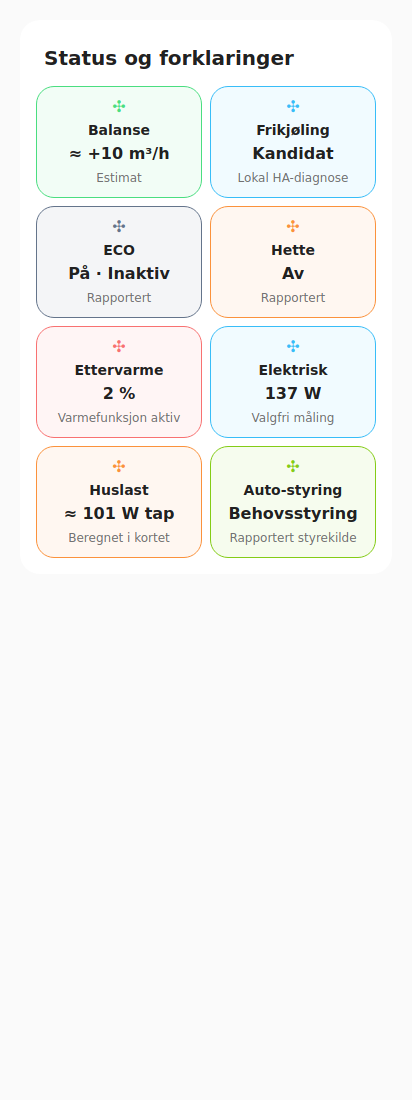
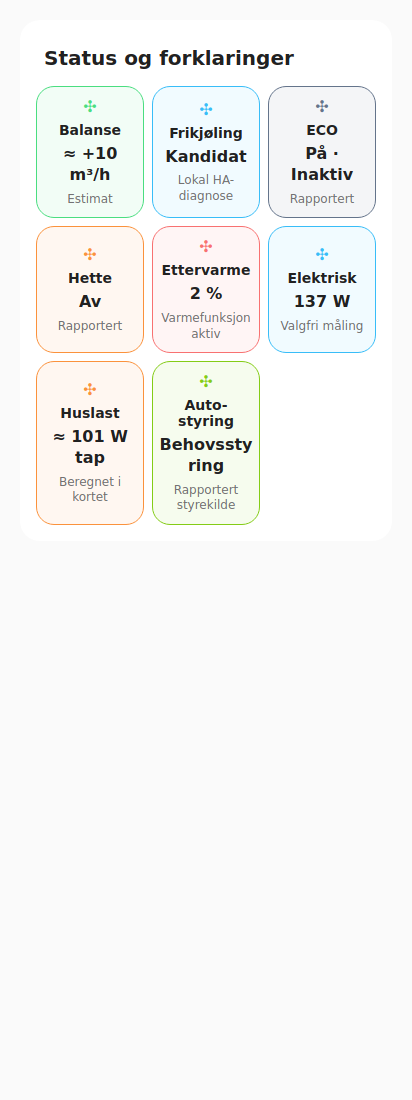
Make explanations toggle on repeated tap and retain three mobile columns (1.2.1)

diff --git a/vsr300-cards.js b/vsr300-cards.js
@@ -1,4 +1,4 @@
-/* VSR300 custom cards · version 1.2.0 · 2026-11-03
+/* VSR300 custom cards · version 1.2.1 · 2026-11-03
  * SPDX-License-Identifier: MIT
  * Copyright (c) 2026 stboee
  * Based on Systemair SVG / Kontrollpanel 4.8.1.
@@ -8,7 +8,7 @@
  */
 (() => {
   'use strict';
-  const VERSION = '1.2.0';
+  const VERSION = '1.2.1';
   const FIELD = (key, label, domain, defaultId, extra = {}) => ({ key, label, domain, defaultId, ...extra });
   const SVG_FIELDS = [
     FIELD('mode', 'Rapportert driftsmodus', 'sensor', 'sensor.systemair_save_modus'),
@@ -829,8 +829,6 @@ const heaterFill = !ettervarmeKnown ? '#854d0e' : ettervarmeActive ? '#991b1b' :
     code{font-size:.9em;overflow-wrap:anywhere}.values{width:100%;border-collapse:collapse;table-layout:fixed;margin:12px 0 16px}.values td{padding:7px 4px;border-bottom:1px solid var(--divider-color,#636363);vertical-align:top;overflow-wrap:anywhere}.values td:first-child{width:58%}.values .source{display:block;font-weight:400;font-size:12px;color:var(--secondary-text-color,#9b9b9b)}
     .close-row{display:flex;justify-content:flex-end}.close-button{min-height:44px;flex-direction:row;padding:8px 16px;gap:8px;border-radius:12px}.close-button ha-icon{--mdc-icon-size:20px}
     @media(max-width:380px){ha-card{padding:12px}.status-grid{gap:6px}.status-button{padding:8px 4px}}
-    @container(max-width:440px){.status-grid{grid-template-columns:repeat(2,minmax(0,1fr))}}
-    @container(max-width:280px){.status-grid{grid-template-columns:minmax(0,1fr)}}
   `;
   // This deliberately supports only the static paragraphs, lists, bold and code
   // used by the reviewed source card. Escape first; never execute source YAML/JS.
@@ -864,7 +862,7 @@ const heaterFill = !ettervarmeKnown ? '#854d0e' : ettervarmeActive ? '#991b1b' :
         if (!button) return;
         const closing = button.hasAttribute('data-close'), previous = this._selected;
         if (closing) this._selected = null;
-        else if (EXPLANATION_TOPICS.some(topic => topic.key === button.dataset.topic)) this._selected = button.dataset.topic;
+        else if (EXPLANATION_TOPICS.some(topic => topic.key === button.dataset.topic)) this._selected = previous === button.dataset.topic ? null : button.dataset.topic;
         this._renderIfReady();
         if (closing && previous) this.shadowRoot.querySelector(`button[data-topic="${previous}"]`)?.focus({ preventScroll: true });
       });

diff --git a/README.md b/README.md
@@ -3,7 +3,7 @@
 Three Home Assistant cards for Systemair SAVE VSR300: **Systemair SVG**,
 **Systemair Kontrollpanel**, and optional **Systemair Status og forklaringer**,
 with graphical entity selection. Current card
-version: **1.2.0**. Reference setup: HA 2026.10.2 and
+version: **1.2.1**. Reference setup: HA 2026.10.2 and
 [Howard systemair_modbus 1.3.0](https://github.com/Howard0000/home-assistant-systemair-modbus).
 
 [Norsk veiledning](README.nb.md)
@@ -24,7 +24,7 @@ same cards are loaded only once. Keep the existing card configurations.
 
 1. Download [vsr300-cards.js](vsr300-cards.js) using GitHub's **Download raw file** button.
 2. Copy it to `/config/www/vsr300/vsr300-cards.js` in Home Assistant. Create the `vsr300` folder if needed.
-3. Add a dashboard resource with URL **`/local/vsr300/vsr300-cards.js?v=1.2.0`** and type **JavaScript module**.
+3. Add a dashboard resource with URL **`/local/vsr300/vsr300-cards.js?v=1.2.1`** and type **JavaScript module**.
 4. Fully reload the browser, edit the dashboard and add the cards you want from the card picker.
 
 ## Configure the cards
@@ -79,7 +79,7 @@ replace it. The SVG and control card configurations stay as they are.
 - `≈` marks the integration's estimated airflow. **Vekslerpådrag** is control output, not measured heat-recovery efficiency. Heater output is shown in percent, without a watt estimate.
 - Each active configured alarm signal gets its own row. A/B/C are summary alarms and may overlap other indications.
 - The air paths and animations are schematic.
-- **Status og forklaringer** has eight status tiles and explanations, local open/close selection, calculated house load, and optional measured power. It needs neither an input_select helper nor button-card. Local free-cooling diagnosis and 24-hour maximum are optional existing HA sources, clearly separate from integration reports. See [explanations card and migration](EXPLANATIONS.md).
+- **Status og forklaringer** has eight status tiles and explanations, local open/close selection (tap the same tile again to close), three columns on mobile, calculated house load, and optional measured power. It needs neither an input_select helper nor button-card. Local free-cooling diagnosis and 24-hour maximum are optional existing HA sources, clearly separate from integration reports. See [explanations card and migration](EXPLANATIONS.md).
 
 ![Cards rendered with simulated values](images/overview-simulated.png)
 

diff --git a/README.nb.md b/README.nb.md
@@ -2,7 +2,7 @@
 
 Tre Home Assistant-kort for Systemair SAVE VSR300: **Systemair SVG**,
 **Systemair Kontrollpanel** og det valgfrie **Systemair Status og forklaringer**,
-med grafisk valg av entiteter. Kortversjon: **1.2.0**.
+med grafisk valg av entiteter. Kortversjon: **1.2.1**.
 Referanseoppsettet er HA 2026.10.2 og
 [Howard systemair_modbus 1.3.0](https://github.com/Howard0000/home-assistant-systemair-modbus).
 
@@ -22,7 +22,7 @@ Ved overgang fra manuell installasjon erstatter du den gamle ressursen
 
 1. Last ned [vsr300-cards.js](vsr300-cards.js) med GitHubs **Download raw file**-knapp.
 2. Kopier filen til `/config/www/vsr300/vsr300-cards.js` i Home Assistant. Opprett mappen `vsr300` ved behov.
-3. Legg til en dashboardressurs med URL **`/local/vsr300/vsr300-cards.js?v=1.2.0`** og type **JavaScript-modul**.
+3. Legg til en dashboardressurs med URL **`/local/vsr300/vsr300-cards.js?v=1.2.1`** og type **JavaScript-modul**.
 4. Last nettlesersiden helt på nytt. Rediger dashboardet og legg til kortene du ønsker fra kortvelgeren.
 
 ## Oppsett av kortene
@@ -77,7 +77,7 @@ så det gamle kortet. SVG- og Kontrollpanel-oppsettene beholdes.
 - `≈` markerer integrasjonens estimerte luftmengde. **Vekslerpådrag** er et pådrag, ikke målt virkningsgrad. Ettervarme vises i prosent, uten wattestimat.
 - Hvert aktivt tilkoblet alarmsignal får egen rad. A/B/C er samlealarmer og kan overlappe andre indikasjoner.
 - Luftveiene og animasjonene er skjematiske.
-- **Status og forklaringer** har åtte statusfelt med forklaringer, lokalt menyvalg, beregnet Huslast og valgfri effektmåling. Det krever verken input_select-hjelper eller button-card. Lokal frikjølingsdiagnose og døgnmaksimum er valgfrie eksisterende HA-kilder som skilles fra integrasjonens rapportering. Se [kortet og overgangen fra YAML](EXPLANATIONS.md).
+- **Status og forklaringer** har åtte statusfelt med forklaringer, lokalt menyvalg (nytt trykk på samme felt lukker teksten), tre kolonner også på mobil, beregnet Huslast og valgfri effektmåling. Det krever verken input_select-hjelper eller button-card. Lokal frikjølingsdiagnose og døgnmaksimum er valgfrie eksisterende HA-kilder som skilles fra integrasjonens rapportering. Se [kortet og overgangen fra YAML](EXPLANATIONS.md).
 
 [Entitetskart](ENTITETSKART.md) · [Endringslogg](CHANGELOG.md) ·
 [Verifikasjon og begrensninger](VERIFIKASJON.md) · [Kilder](SOURCES.md) · [MIT-lisens](LICENSE)

diff --git a/EXPLANATIONS.md b/EXPLANATIONS.md
@@ -1,4 +1,4 @@
-# Status og forklaringer – 1.2.0
+# Status og forklaringer – 1.2.1
 
 Et valgfritt tredje kort i samme pakke som SVG og Kontrollpanel:
 
@@ -22,14 +22,16 @@ Bytt til dine entiteter og tøm valgfrie felt du ikke bruker.
 - **Grense for markering av estimert ubalanse:** 15 m³/h som standard. Grønn
   markering betyr at differansen mellom luftmengdeestimatene er mindre enn
   grensen; det er ikke en måling av fysisk balanse eller trykk.
-- Oppsettet tilpasses kortets bredde: tre kolonner når det er god plass, to
-  kolonner på mobil og én ved svært smale kort.
+- Statusfeltene vises i tre kolonner, også på mobil. Teksten kan brytes over
+  flere linjer og beholder samme skriftstørrelse.
 
 ## Hva kortet gjør selv
 
 De åtte feltene er Balanse, Frikjøling, ECO, Hette, Ettervarme, Elektrisk,
 Huslast og Auto-styring. Trykk på et felt for å lese forklaringen og se relevante
-verdier. **Lukk** skjuler forklaringen. Menyvalget gjelder hvert kort for seg,
+verdier. Trykk på det samme feltet igjen for å lukke teksten, eller på et annet
+felt for å bytte forklaring. **Lukk** nederst skjuler også forklaringen.
+Menyvalget gjelder hvert kort for seg,
 beholdes ved vanlige HA-oppdateringer og starter skjult ved ny sideinnlasting.
 Valget sender ingen kommando til HA eller aggregatet.
 
@@ -90,7 +92,9 @@ Add **Systemair Status og forklaringer** after updating the existing HACS
 package. Configure every entity you use in the native visual editor; clear
 unused optional fields. The eight topics, explanations and source readouts
 are retained from the maintainer's supplied card. Selection is local to each
-card, and house load is calculated from native integration values. No helper,
+card: tap the selected tile again to close it, or use Close below the text.
+The tiles keep three columns on mobile without smaller font sizes.
+House load is calculated from native integration values. No helper,
 button-card dependency or local house-load entity is required. Optional local
 free-cooling diagnoses and measured electrical power remain external HA inputs.
 Check other consumers before removing any old helpers or templates.

diff --git a/VERIFIKASJON.md b/VERIFIKASJON.md
@@ -1,6 +1,24 @@
-# Verifikasjon – 1.2.0 – 2026-11-03
+# Verifikasjon – 1.2.1 – 2026-11-03
 
-## Gjennomført lokalt for 1.2.0
+## Gjennomført lokalt for 1.2.1
+
+- Ni nettleserkontrollgrupper for Status og forklaringer er bestått.
+- Et nytt trykk på det åpne statusfeltet lukker teksten. Enter og mellomrom
+  virker på samme måte. Bytte til et annet felt og Lukk-knappen nederst virker
+  fortsatt, med fokus bevart på statusfeltet etter lukking.
+- Alle åtte feltene bruker tre kolonner ved 320/360/412/900 px vindusbredde.
+  Teksten beholder skriftstørrelsen og er kontrollert for horisontal overflyt
+  i lyse og mørke farger. Nye skjermbilder er kontrollert visuelt.
+- SVG-, Kontrollpanel- og felleskode er uendret bortsett fra pakkeversjonen.
+  Dette er kontrollert ved sammenligning med det tidligere kontrollgrunnlaget.
+- Statusberegninger, entitetskoblinger, ukjente verdier og uavhengige kortvalg
+  består de eksisterende kontrollene. Ingen eksterne forespørsler eller
+  HA-tjenestekall foretas av forklaringskortet.
+
+Kontrollene er lokale simuleringer; faktisk mobilvisning i brukerens HA må
+bekreftes etter oppdatering. SVG-elementer har ikke fått nye klikkhandlinger.
+
+## Historisk kontrollgrunnlag – 1.2.0, 2026-11-03
 
 - 23 lokale kontrollgrupper er bestått: 14 tidligere nettlesergrupper og
   9 grupper for det nye kortet. Lyst/mørkt tema og bredder 360/412/900 px

diff --git a/CHANGELOG.md b/CHANGELOG.md
@@ -1,5 +1,13 @@
 # Changelog
 
+## 1.2.1 — 2026-11-03
+
+- Tapping an open status tile closes its explanation. Tapping a different tile
+  switches topics; the Close button below the explanation remains available.
+- Status tiles keep three columns on mobile, with unchanged font sizes and
+  wrapping text.
+- SVG, controls, entity mappings and calculations are unchanged.
+
 ## 1.2.0 — 2026-11-03
 
 - Add optional Systemair Status og forklaringer as a third card in the same

diff --git a/ENTITETSKART.md b/ENTITETSKART.md
@@ -1,4 +1,4 @@
-# Entitetskart – custom cards 1.2.0
+# Entitetskart – custom cards 1.2.1
 
 Startkoblingene er eksempler fra referanseoppsettet. Brukeren må kontrollere alle
 koblinger i kortene som brukes og endre dem til tilsvarende entiteter i sin egen
